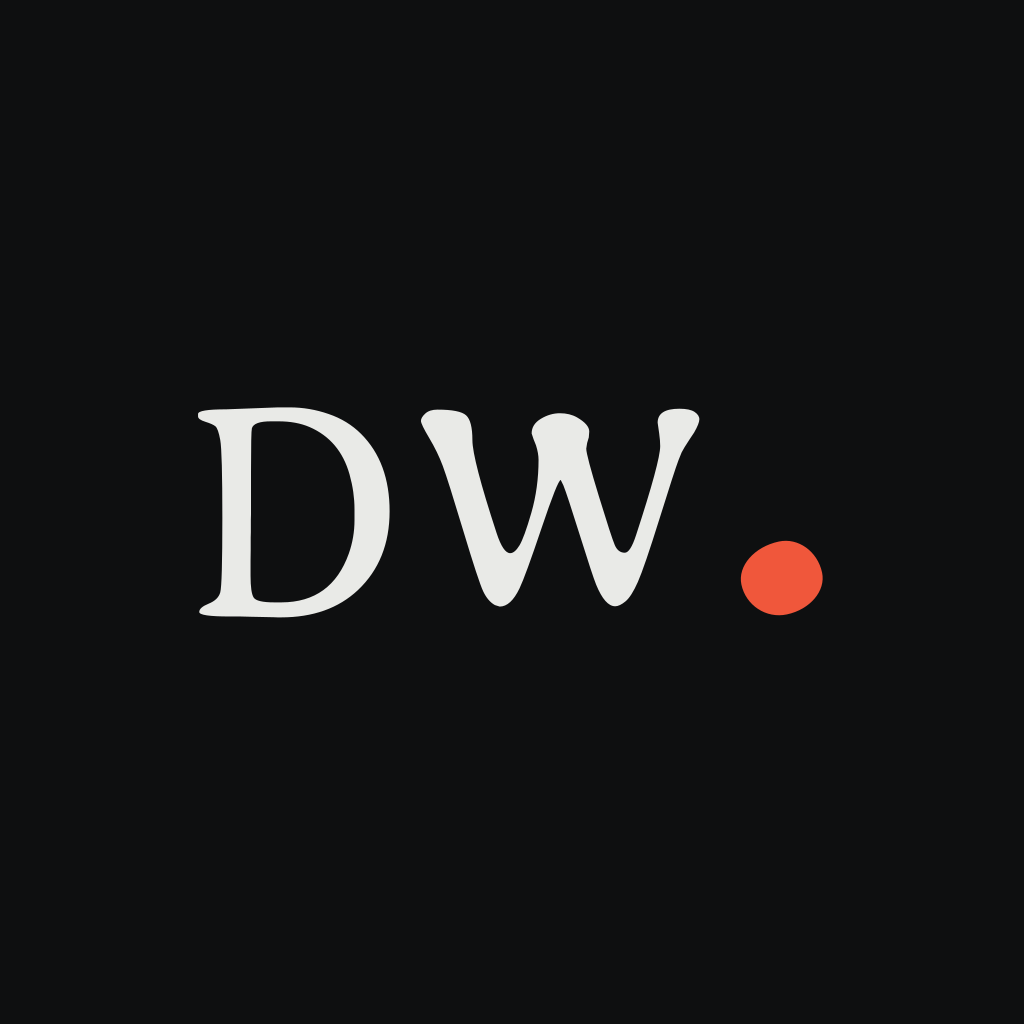
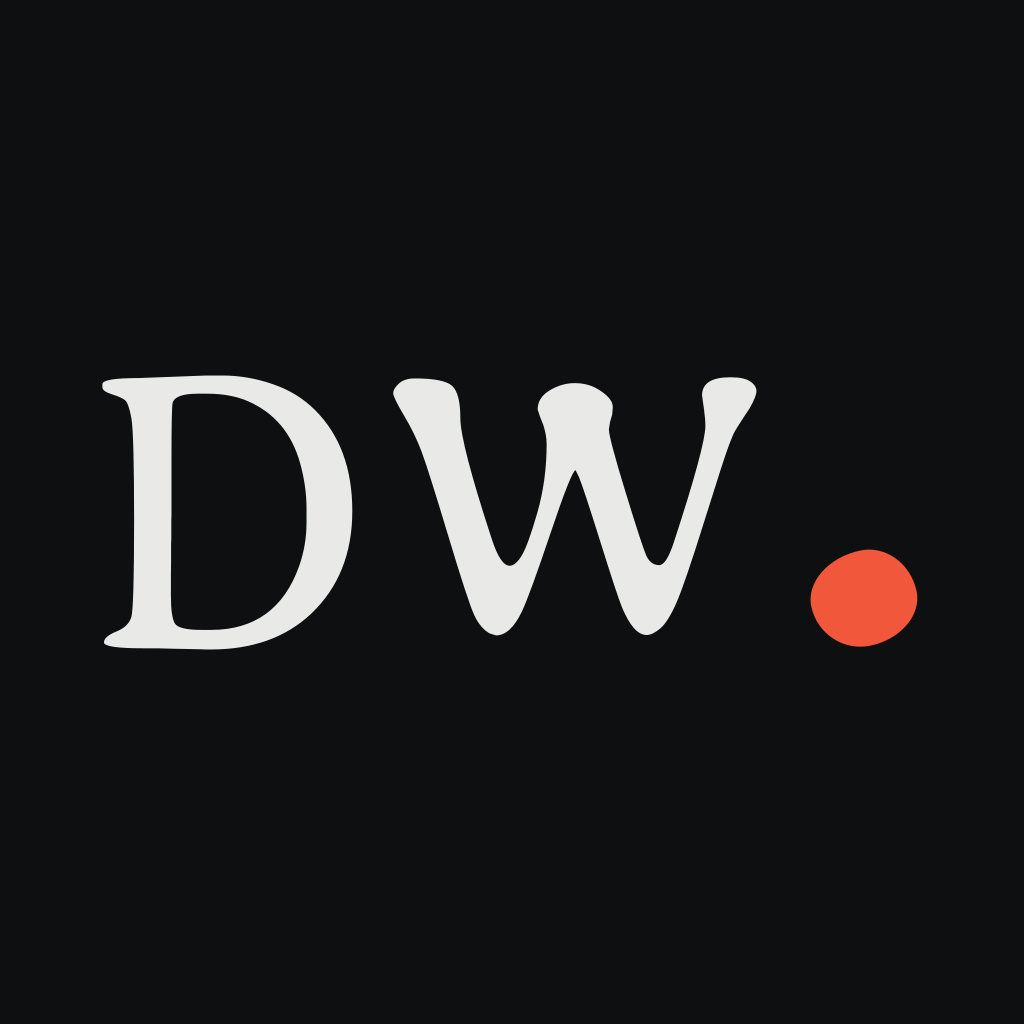
Replace the brand kit folder with the newer v3 zip
Claude-Session: https://claude.ai/code/session_01PCTozQb23zVjz1M15wtUfx

Changed region(s): [[0.0938, 0.3438, 0.75, 0.6562], [0.7188, 0.5312, 0.9062, 0.6562]]

diff --git a/CLAUDE.md b/CLAUDE.md
@@ -192,6 +192,7 @@ Any new photo must have its metadata (including GPS) stripped before it is commi
 - **2026-11-24: brand kit v3 files are in.** The tab icon and app icons are now "DW.", the share image is the kit's, and the dot holds its still shape under reduced motion and in print. Merged to `main` (David said to). Later the same day: app icons with larger letters, the kit's marks in `public/brand/`, and `design/brand-kit/` replaced with v3.
 - **2026-11-24: the hint is live.** Once a visit, about 4 seconds after the sentence arrives on the home page, each word is chosen in turn and the dot swells once. Merged to `main` (David said to). Checked here in a headless browser; not yet checked in real Safari on David's laptop and iPhone.
 - **2026-11-24: David's final copy is in** on every door and all five project pages, and the facts above were brought in line with it. Also the same day: the dot swells more slowly, a scroll on the home page plays the hint, and the dot no longer ghosts when doors change.
+- **2026-11-25: the icons were replaced again** with the kit's versions where "DW." fills more of the square, Copywriter Lab's paragraph was reworded, and `design/brand-kit/` was replaced with the newer v3 zip (its icons and profile pictures changed). The first two are on `main` (David said to).
 - **Checked here:** every address at 1440 × 900 and 390 × 844, light and dark; the click-through flow, reels, Back and Forward, Escape, old addresses redirecting, and the pages without scripts.
 - **Waiting on David:**
   - How it feels on his real laptop and iPhone, especially in Safari.
